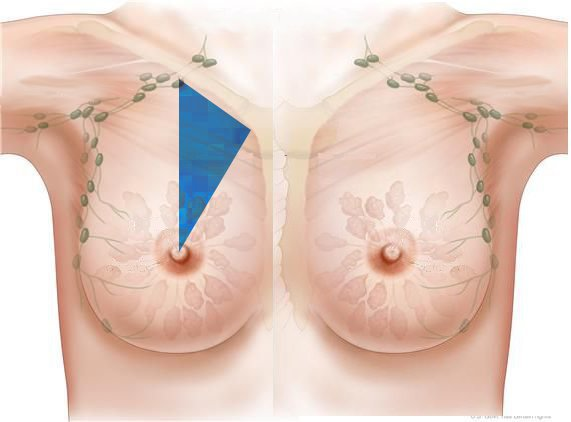
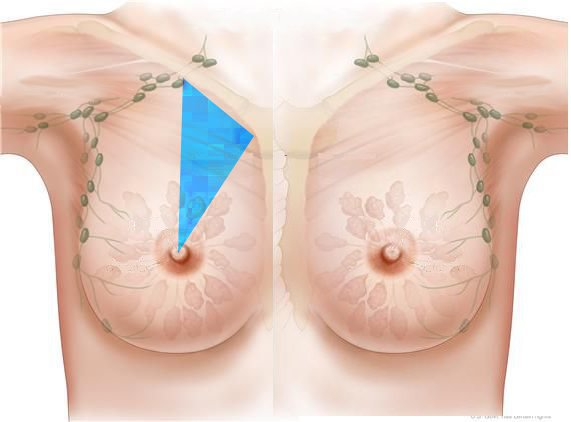
20160817 Surowe gotowegit add --allgit add --all

Changed region(s): [[0.2977, 0.1848, 0.4466, 0.5853]]

diff --git a/View/Static/Edit_01/EditForm_07_obserwacjaM.html b/View/Static/Edit_01/EditForm_07_obserwacjaM.html
@@ -37,15 +37,16 @@
                     <map name="planetmap" id="planetmap">
                                                             //    class="icolor000000 forcegroup"
                                                             //    class="noborder icolor00ff00"
-                        <area id='rec1' alt="" title="" nohref shape="poly" coords="179,250,182,81,256,134"  onclick="showCoordsCyca(event, 'rec1');"/>
+                        <area alt="" title="" nohref shape="poly" coords="179,250,182,81,256,134"  onclick="showCoordsCyca(event, 'rec1');"/>
                         <area alt="" title="" nohref shape="poly" coords="180,253,256,136,268,219" onclick="showCoordsCyca(event, 'rec2');"/>
                         <area alt="" title="" nohref shape="poly" coords="180,255,267,221,257,314" onclick="showCoordsCyca(event, 'rec3');"/>
                         <area alt="" title="" nohref shape="poly" coords="181,258,253,316,231,337,212,350,183,354" onclick="showCoordsCyca(event, 'rec4');"/>
                         <area alt="" title="" nohref shape="poly" coords="178,258,180,355,154,352,129,342,110,331" onclick="showCoordsCyca(event, 'rec5');"/>
                         <area alt="" title="" nohref shape="poly" coords="110,333,93,314,84,290,80,270,176,256" onclick="showCoordsCyca(event, 'rec6');"/>
                         <area alt="" title="" nohref shape="poly" coords="175,254,78,269,79,233,83,214" onclick="showCoordsCyca(event, 'rec7');"/>
-                        <area alt="" title="" nohref shape="poly" coords="106,121,176,250,180,81"  onclick="showCoordsCyca(event, 'rec8');"/>
-                        <area alt="" title="" nohref shape="poly" coords="84,211,104,123,174,251" onclick="showCoordsCyca(event, 'rec9');"/>
+                        <area alt="" title="" nohref shape="poly" coords="84,211,104,123,174,251" onclick="showCoordsCyca(event, 'rec8');"/>
+                        <area alt="" title="" nohref shape="poly" coords="106,121,176,250,180,81"  onclick="showCoordsCyca(event, 'rec9');"/>
+
 
                         <area alt="" title="" nohref shape="poly" coords="394,77,391,251,471,119" onclick="showCoordsCyca(event, 'rec10');"/>
                         <area alt="" title="" nohref shape="poly" coords="472,121,490,188,393,251" onclick="showCoordsCyca(event, 'rec11');"/>
@@ -59,13 +60,13 @@
 
                     </map>
                 </div>
-                <div class="col-sm-12"></div>
-                <div class="form-group map">
+                <!--div class="col-sm-12"></div-->
+                <div class="form-group">
                     <label class="col-sm-3 control-label">Coordinats</label>
                     <div class="col-sm-3">
                         <input id="obszar" class="form-control" type="text" name="obszar" >
                     </div>
-                    <div class="col-sm-12"></div>
+                <!--div class="col-sm-12"></div-->
                     <div id="zmiana_opis_coor">
                         <label class="col-sm-3 control-label">opis zmiany</label>
                         <div class="col-sm-3">

diff --git a/Controllers/EditController.js b/Controllers/EditController.js
@@ -20,10 +20,10 @@ $(document).ready(function () {
         success: function (response) {
             var data = jQuery.parseJSON(response);
 
-            LoadCyckiPict(data);
+//            LoadCyckiPict(data);
             Make_Records(data);
             loadUstawienia();
-//            LoadCyckiPict(data);
+            LoadCyckiPict(data);
         },
         error: function (response) {
             alert("ERROR w EditCtrl 26" + response);
@@ -589,25 +589,51 @@ $(document).ready(function () {
         });
     }
 
-    function LoadCyckiPict(data) {  // nie działa... obrazek się nie chce podmienić.
-
-
-        var opisObsz = data[0]['zmiana_opis_pict']
-//        var opisObsz = $('#obszar').val();
-
-//        alert(opisObsz);
-
+    function LoadCyckiPict(data) {
+        var opisObsz = data[0]['obszar'];
         var ind = opisObsz.indexOf(':');
         var id_ob = opisObsz.substring(0, ind);
+        $('#map_img_image').attr('src', 'img/anatomy_02_' + id_ob + '.jpg');
 
-//        alert(opisObsz + ", ind od ':' = "+ind+", id="+id_ob)
+        var el = document.getElementById("obszar");
 
-        id_ob = "rec1"; // test
+        switch (id_ob) {
+            case "rec1":
+            case "rec7":
+            case "rec13":
+                el.style.backgroundColor = "red";
+//                alert("red")
+                break;
+            case "rec2":
+            case "rec8":
+            case "rec14":
+                el.style.backgroundColor = "yellow";
+                break;
+            case "rec3":
+            case "rec9":
+            case "rec15":
+                el.style.backgroundColor = "green";
+                break;
+            case "rec4":
+            case "rec10":
+            case "rec16":
+                el.style.backgroundColor = "brown";
+                break;
+            case "rec5":
+            case "rec11":
+            case "rec17":
+                el.style.backgroundColor = "orange";
+                break;
+            case "rec6":
+            case "rec12":
+            case "rec18":
+                el.style.backgroundColor = "pink";
+                break;
 
-//        $("#map_img").attr("src","img/anatomy_02_"+id_ob+".jpg");
-//        $('#img_contener').remove($('#map_img'))
-//        $('#img_contener').append("<img usemap='#planetmap' class='col-sm-2 mapper' src='img/anatomy_02_rec1.jpg' alt='Brak cycków' />")
-//        
+            default:
+                el.style.backgroundColor = "white";
+                break;
+        }
     }
 
     function  pobierz_szpitale() {

diff --git a/View/Static/Form_01/NyForm_07_obserwacjaM.html b/View/Static/Form_01/NyForm_07_obserwacjaM.html
@@ -43,8 +43,9 @@
                         <area alt="" title="" nohref shape="poly" coords="178,258,180,355,154,352,129,342,110,331" onclick="showCoordsCyca(event, 'rec5');"/>
                         <area alt="" title="" nohref shape="poly" coords="110,333,93,314,84,290,80,270,176,256" onclick="showCoordsCyca(event, 'rec6');"/>
                         <area alt="" title="" nohref shape="poly" coords="175,254,78,269,79,233,83,214" onclick="showCoordsCyca(event, 'rec7');"/>
-                        <area alt="" title="" nohref shape="poly" coords="106,121,176,250,180,81"  onclick="showCoordsCyca(event, 'rec8');"/>
-                        <area alt="" title="" nohref shape="poly" coords="84,211,104,123,174,251" onclick="showCoordsCyca(event, 'rec9');"/>
+                        <area alt="" title="" nohref shape="poly" coords="84,211,104,123,174,251" onclick="showCoordsCyca(event, 'rec8');"/>
+                        <area alt="" title="" nohref shape="poly" coords="106,121,176,250,180,81"  onclick="showCoordsCyca(event, 'rec9');"/>
+
 
                         <area alt="" title="" nohref shape="poly" coords="394,77,391,251,471,119" onclick="showCoordsCyca(event, 'rec10');"/>
                         <area alt="" title="" nohref shape="poly" coords="472,121,490,188,393,251" onclick="showCoordsCyca(event, 'rec11');"/>
@@ -58,13 +59,13 @@
 
                     </map>
                 </div>
-                <div class="col-sm-12"></div>
-                <div class="form-group map">
+                <!--div class="col-sm-12"></div-->
+                <div class="form-group">
                     <label class="col-sm-3 control-label">Coordinats</label>
                     <div class="col-sm-3">
                         <input id="obszar" class="form-control" type="text" name="obszar">
                     </div>
-                    <div class="col-sm-12"></div>
+                <!--div class="col-sm-12"></div-->
                     <div id="zmiana_opis_coor">
                         <label class="col-sm-3 control-label">opis zmiany</label>
                         <div class="col-sm-3">

diff --git a/Functions/functions.js b/Functions/functions.js
@@ -13,6 +13,10 @@ function showCoordsCyca(event, text) {
 //    var el = document.getElementById("cords");
     var el = document.getElementById("obszar");
     el.innerHTML = coords;
+    
+    $('#map_img_image').attr('src','img/anatomy_02_'+text+'.jpg');
+    $('#gmipam_0_image').attr('src','img/anatomy_02_'+text+'.jpg');
+        
     el.value = coords;
     switch (text) {
         case "rec1":

diff --git a/EditCrud.php b/EditCrud.php
@@ -40,12 +40,12 @@
                                 <label class="col-sm-3 control-label">Stare hasło</label>
                                 <div class="col-sm-3">
                                     <input type="password" name="losenord" id="losenord"  data-toggle="popover" data-trigger="hover" data-content="Hasło powinno składać się z min. 8 znaków, przynajmniej jedna litera duża i cyfra." />
-<!--                                    <div id="losenord_error" >
-                                        <span class="alert-danger" >Hasło nieprawidłowe lub puste!!!</span>
-                                    </div>
-                                    <div id="losenord_success" >
-                                        <span class="alert-success" >Prawidłowe hasło</span>
-                                    </div>-->
+                                    <!--                                    <div id="losenord_error" >
+                                                                            <span class="alert-danger" >Hasło nieprawidłowe lub puste!!!</span>
+                                                                        </div>
+                                                                        <div id="losenord_success" >
+                                                                            <span class="alert-success" >Prawidłowe hasło</span>
+                                                                        </div>-->
                                 </div>    
                             </div>
                             <p class="col-sm-12"></p>
@@ -105,13 +105,10 @@
                                     <input type="text" name="IP" id="IP" disabled/>
                                 </div>    
                             </div>
-
-
-
                         </div>       
                         <button id="submit" class="btn btn-success btn-lg btn-block">
-                            <span class="glyphicon glyphicon-floppy-saved"></span> Edytuj!</button>
-
+                            <span class="glyphicon glyphicon-floppy-saved"></span> Edytuj!
+                        </button>
                     </form>
                 </div>
             </div>

diff --git a/AJAX/ListaSzpitaliAJAX.php b/AJAX/ListaSzpitaliAJAX.php
@@ -33,7 +33,7 @@ if (isset($_POST['action'])) {
 //            $where = " AND `czyNIESzpital` = false;";
             break;
         case 'search':
-            $where = " AND `nazwa` LIKE '%" . $_POST['nazwa'] . "%';";
+            $where = " AND LOWER(`nazwa`) LIKE LOWER('%" . $_POST['nazwa'] . "%');";
             break;
         case 'deleSzpital':
             //kasujemy tylko jak szpital nie jest w jakimś formularzu wykorzystany!!
@@ -83,6 +83,7 @@ while ($r = mysqli_fetch_assoc($result)) {
 }
 
 array_push($rows, $arr_of_szpit_in_forms);
+array_push($rows, $SQL);
 
 
 
